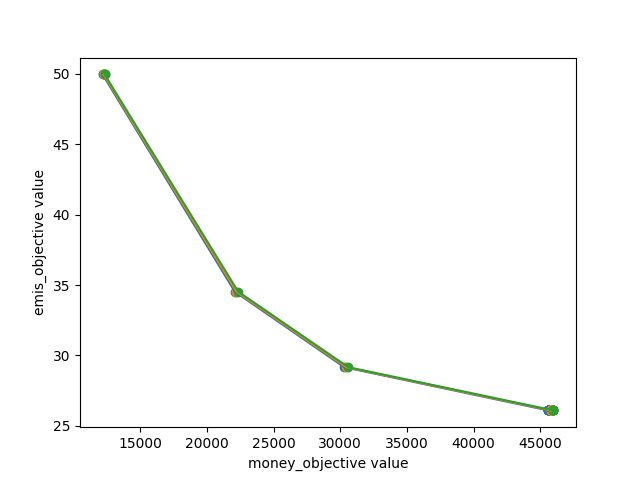
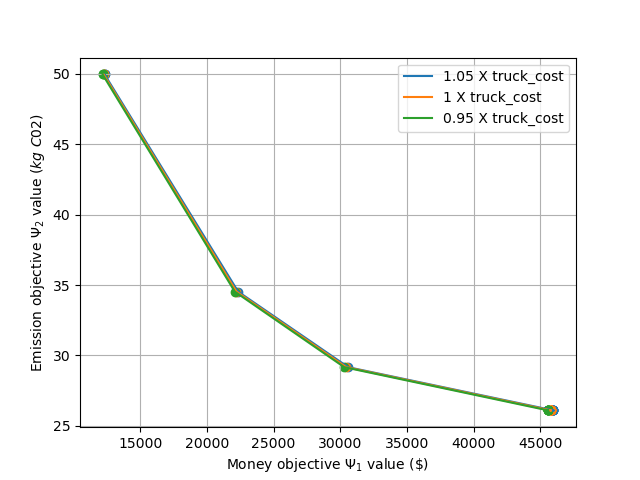
implemented the fancy pancy plotting routines

diff --git a/SimpleVRP.py b/SimpleVRP.py
@@ -219,34 +219,36 @@ def VRP_Problem (depots, customers, trucks, nodes, costs, alpha, gamma, distance
         # print(f"Model with epsilon {epsilon}")
         Run_Model(solutions, epsilon, first_run = False)       
 
-    
-def saveResults(solutions, name_param, start_time):
-    plt.clf()
-    # elapsed_time = time() - start_time
 
-    time = datetime.now().strftime("%H_%M_%S")
-    with open(f'solutions/solutions_{name_param}{time}.pickle', 'wb') as f:
-        pickle.dump(solutions, f)
-    
-    for dP in solutions:
+def plotSolution(solutions, name_param):
+    plt.clf()
+    for dP in reversed(solutions):
         obj1 = []
         obj2 = []
         for sol in solutions[dP].items():
             obj1.append(sol[1]['emis_objective value'])
             obj2.append(sol[1]['money_objective value'])
         plt.scatter(obj2, obj1)
-        plt.plot(obj2, obj1)
-    
-    plt.xlabel('money_objective value')
-    plt.ylabel('emis_objective value')
+        plt.plot(obj2, obj1, label=f"{dP} X {name_param}")
+    plt.legend()
+    plt.grid()
+    plt.xlabel(r'Money objective $\Psi_1$ value (\$)')
+    plt.ylabel(r'Emission objective $\Psi_2$ value ($kg$ $C02$)')
     plt.savefig(f"solutions/{name_param}")
-    # plt.show()
-    
 
-    # print ("Run Time = ", round(elapsed_time, 4), '[s]')
+    
+def saveResults(solutions, name_param, start_time):
+   
+    # elapsed_time = time() - start_time
+
+    time = datetime.now().strftime("%H_%M_%S")
+    with open(f'solutions/solutions_{name_param}{time}.pickle', 'wb') as f:
+        pickle.dump(solutions, f)
+    
+    saveResults(solutions, name_param)
+
     print ("END")
 
-        
         
 
 if __name__ == '__main__':

diff --git a/solution_reader.py b/solution_reader.py
@@ -1,6 +1,10 @@
 import pickle
+from SimpleVRP import plotSolution
 
-with open('solutions/solutions_truck_cost18_14_49.pickle') as f:
-    loaded_obj = pickle.load(f)
+with open('solutions/solutions_truck_cost18_14_49.pickle', 'rb') as f:
+    loaded_obj = pickle.load(f, encoding= 'unicode_escape')
+
+    plotSolution(loaded_obj, "truck_cost")
+
 
 print(loaded_obj)
